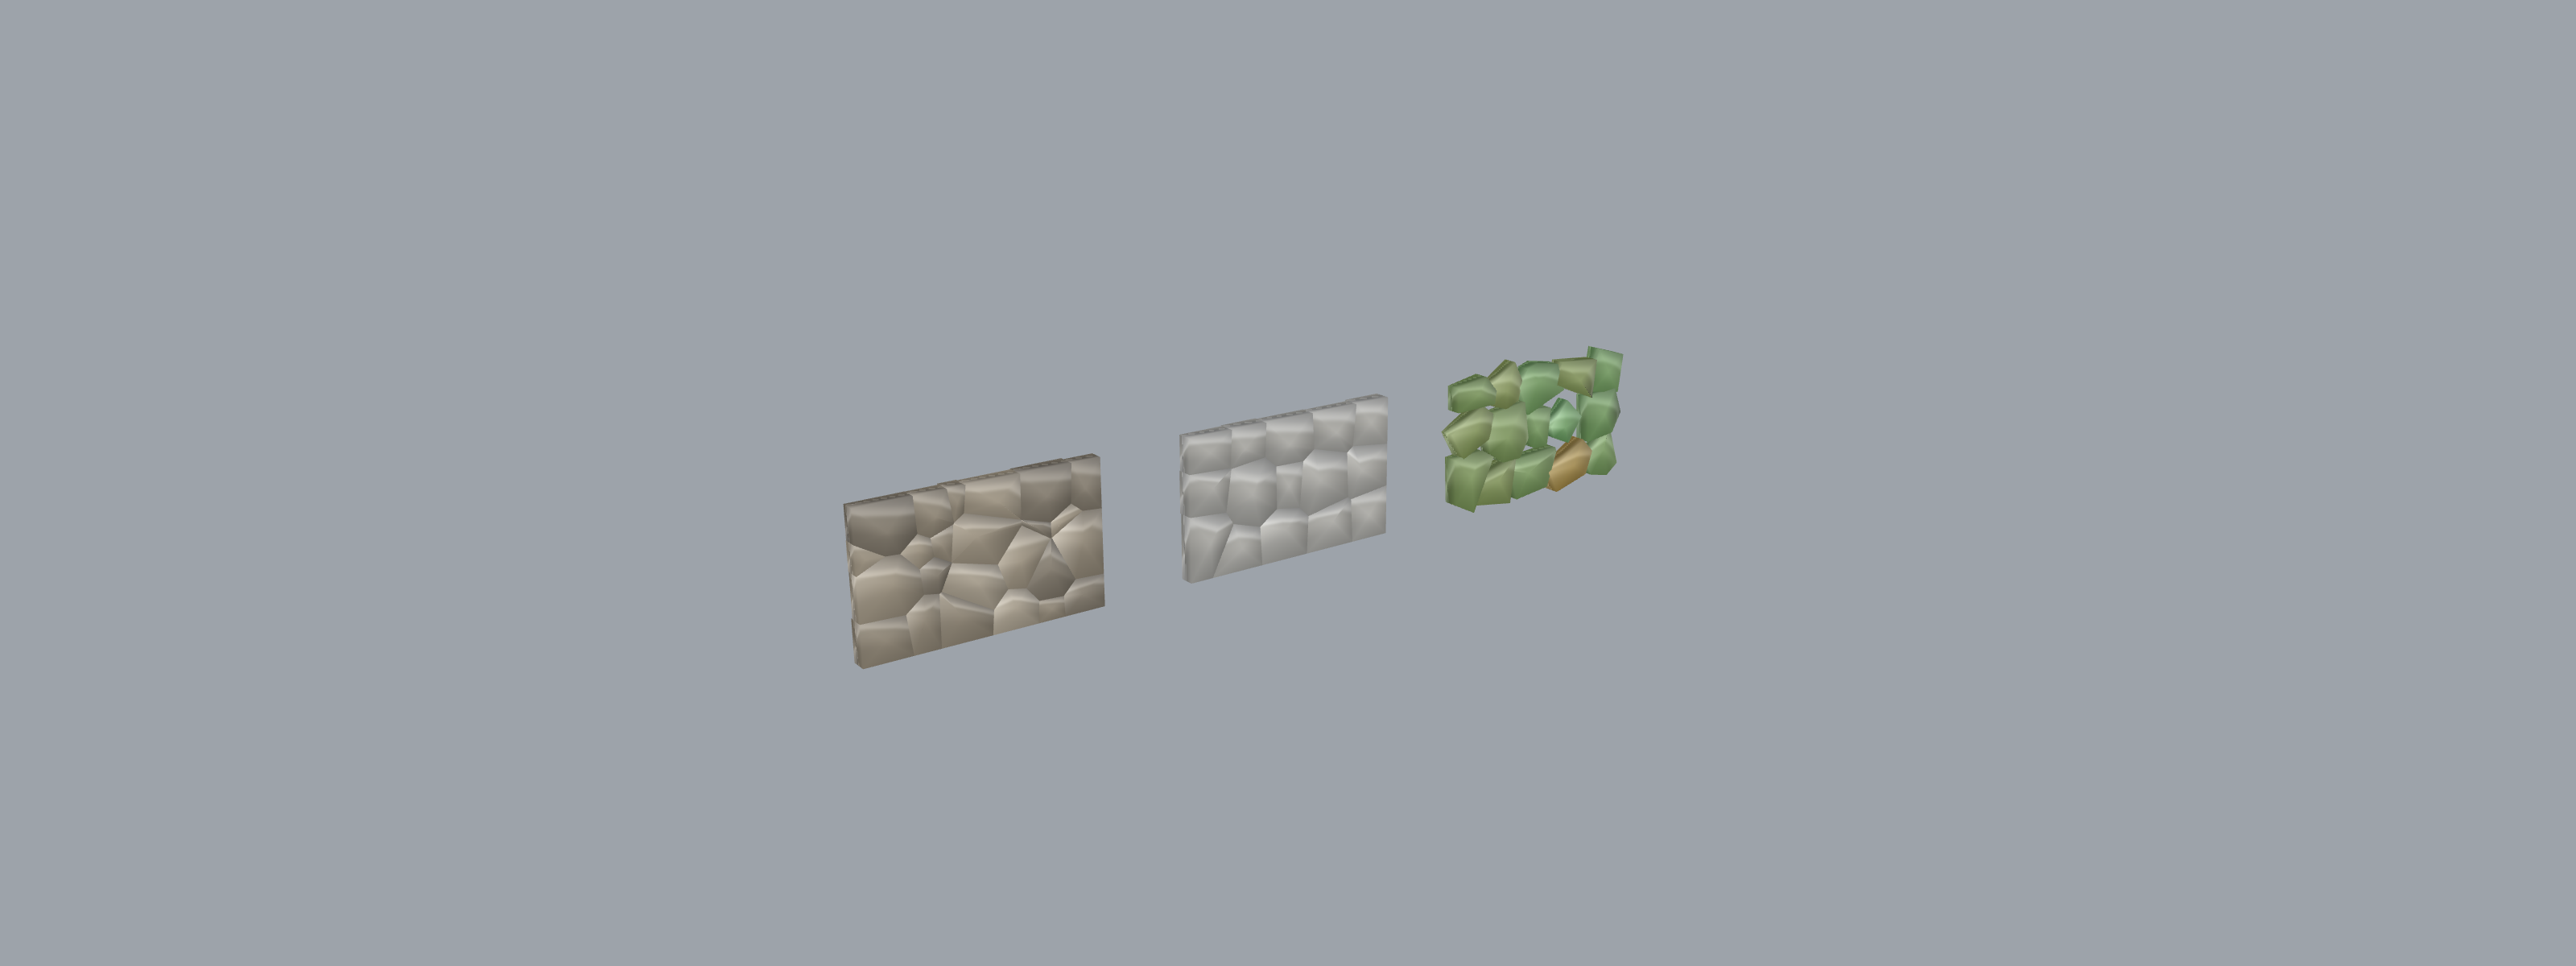
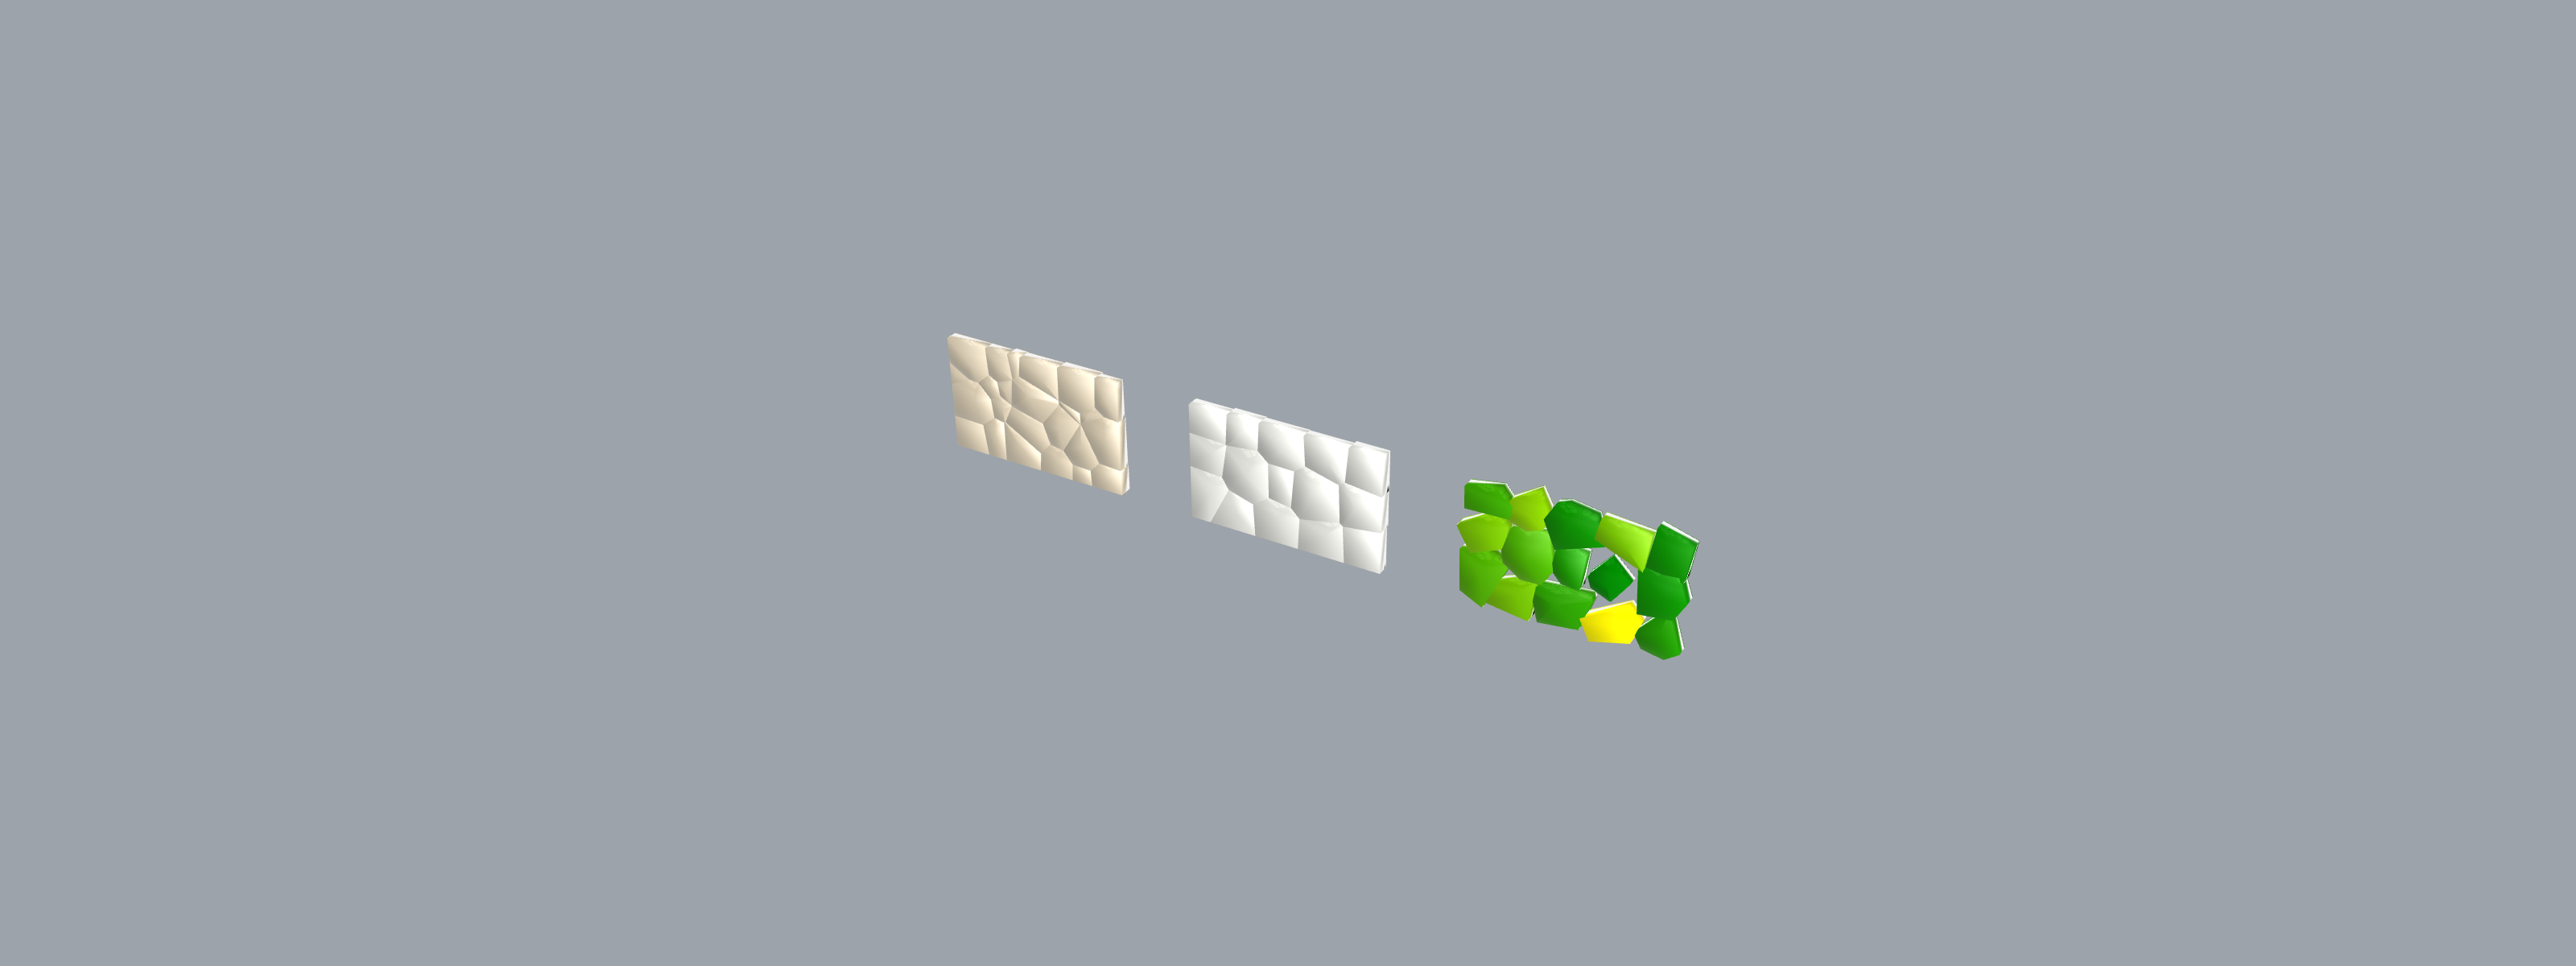
feat(examples): card 27_07 presentation made canvas-native (Move + Custom Preview + Carve-driven Gradient)
User HITL feedback: the final form was being assembled by external C# bake scripts. Now the canvas owns it:
Moves lay out inventory/cells/placed, Colour Swatches + a Traffic Gradient (domain 0..0.5, driven by the
Carve output) colour everything. Re-opening the .gh reproduces the capture with zero scripting.

Changed region(s): [[0.3125, 0.3392, 0.6562, 0.7092]]

diff --git a/examples/27_polygonal_masonry/27_07_README.md b/examples/27_polygonal_masonry/27_07_README.md
@@ -19,6 +19,12 @@ Left = the inventory; middle = the target cell wall; right = the inventory stone
 cells, coloured by carve ratio (green low → amber high) — gaps show honestly where a stone under-fills its
 cell (the α·carve vs β·gap trade). Exact cut geometry comes from the Core StoneCarveBack (CGAL intersection).
 
+## Presentation is canvas-native (no external scripts)
+The final form is produced ENTIRELY by the canvas: Move components lay out inventory / cells / placed
+side-by-side, Custom Previews colour them (Colour Swatches for inventory + cells; a Gradient — Traffic
+preset, domain 0..0.5 — driven by the Carve output colours the placed stones green = cheap carve, red =
+expensive). Re-opening the .gh reproduces the capture with zero scripting.
+
 ## Notes
 - Mortar is wired 0 so cells = dry joints (the structural model and the matching both use full cells).
 - Known canvas quirk fixed in code (next .gha load): the stability check's Stones input is now Optional, so